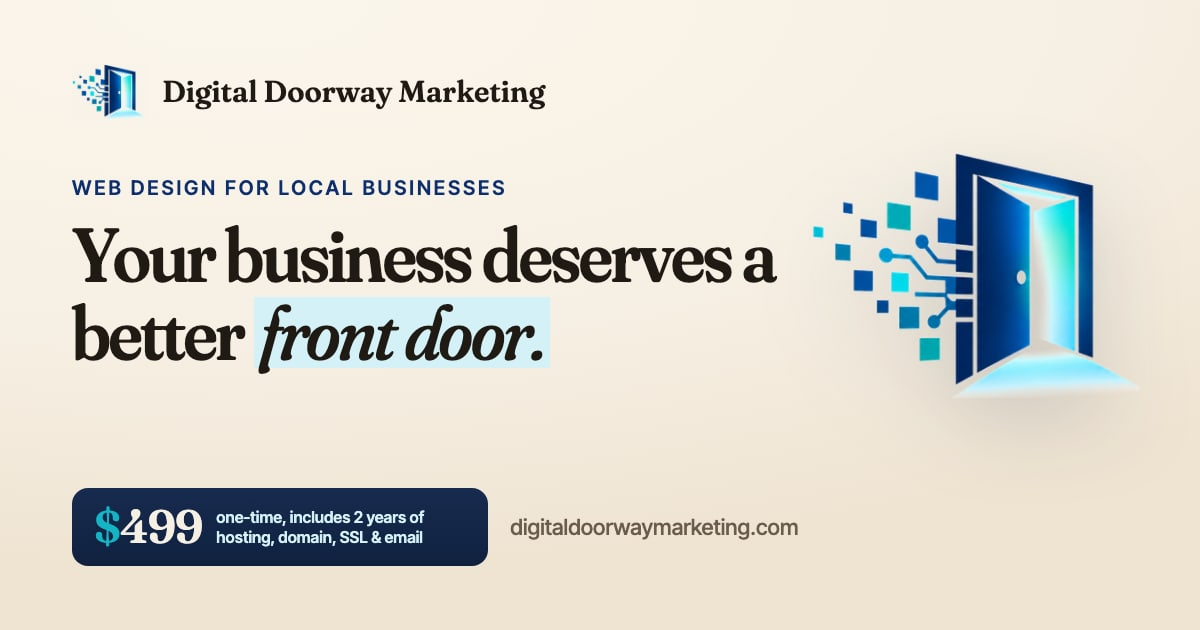
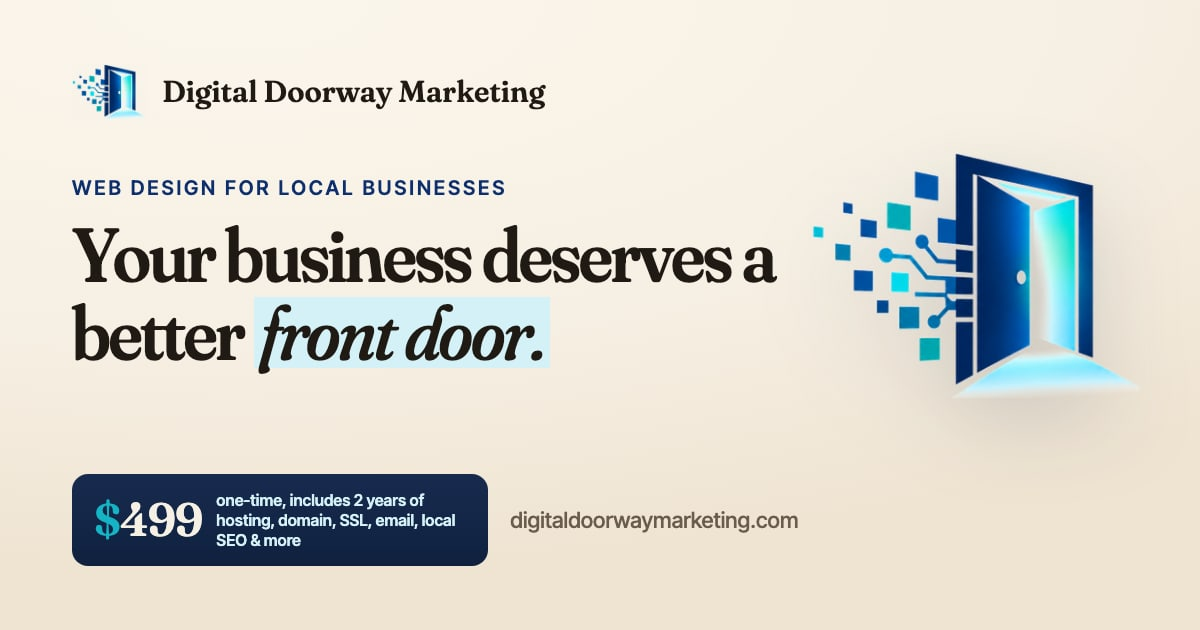
Offer matches /ready: 7 services included for 2 years; drop newsletter
- /ready: monthly newsletter removed; counts now 7 services; service cards
  center an odd last row
- Homepage: $499 includes 2 years of hosting, domain, SSL, 5 emails, local
  SEO, QR codes, and an audio welcome message (checkout rows, pricing panel,
  hero, FAQ, after-two-years intro)
- Bundle renamed 'Business Bundle' with /ready's contents (domain, hosting,
  SSL, 5 emails, local SEO, QR codes, audio welcome) at $34.99/month
- Meta/OG/JSON-LD, llms.txt, share image, worker item names updated

Changed region(s): [[0.0617, 0.754, 0.6783, 0.8746]]

diff --git a/docs/index.html b/docs/index.html
@@ -4,7 +4,7 @@
   <meta charset="utf-8">
   <meta name="viewport" content="width=device-width, initial-scale=1">
   <title>Small Business Web Design, $499 | Digital Doorway Marketing</title>
-  <meta name="description" content="Custom websites for local businesses for a flat $499, including 2 years of hosting, domain, SSL, and business email. Mobile-first and live in days.">
+  <meta name="description" content="Custom websites for local businesses for a flat $499, with 2 years of hosting, domain, SSL, email, local SEO, and more included. Live in days.">
   <link rel="canonical" href="https://digitaldoorwaymarketing.com/">
   <meta name="theme-color" content="#F6EFE3">
   <meta property="og:type" content="website">
@@ -12,16 +12,16 @@
   <meta property="og:locale" content="en_US">
   <meta property="og:url" content="https://digitaldoorwaymarketing.com/">
   <meta property="og:title" content="$499 Small Business Websites | Digital Doorway Marketing">
-  <meta property="og:description" content="A custom website for your local business for a flat $499, including your first 2 years of hosting, domain, SSL, and business email. Designed, written, and launched for you.">
+  <meta property="og:description" content="A custom website for your local business for a flat $499, with your first 2 years of hosting, domain, SSL, email, local SEO, QR codes, and an audio welcome message included.">
   <meta property="og:image" content="https://digitaldoorwaymarketing.com/assets/og-image.jpg">
   <meta property="og:image:width" content="1200">
   <meta property="og:image:height" content="630">
-  <meta property="og:image:alt" content="Digital Doorway Marketing: small business websites for $499, including 2 years of hosting, domain, SSL, and business email">
+  <meta property="og:image:alt" content="Digital Doorway Marketing: small business websites for $499, with 2 years of hosting, domain, SSL, email, and more included">
   <meta name="twitter:card" content="summary_large_image">
   <meta name="twitter:title" content="$499 Small Business Websites | Digital Doorway Marketing">
-  <meta name="twitter:description" content="A custom website for your local business for a flat $499, including your first 2 years of hosting, domain, SSL, and business email. Designed, written, and launched for you.">
+  <meta name="twitter:description" content="A custom website for your local business for a flat $499, with your first 2 years of hosting, domain, SSL, email, local SEO, QR codes, and an audio welcome message included.">
   <meta name="twitter:image" content="https://digitaldoorwaymarketing.com/assets/og-image.jpg">
-  <meta name="twitter:image:alt" content="Digital Doorway Marketing: small business websites for $499, including 2 years of hosting, domain, SSL, and business email">
+  <meta name="twitter:image:alt" content="Digital Doorway Marketing: small business websites for $499, with 2 years of hosting, domain, SSL, email, and more included">
   <link rel="icon" href="favicon.ico" sizes="48x48">
   <link rel="icon" type="image/png" sizes="96x96" href="assets/icon-96.png">
   <link rel="icon" type="image/png" sizes="192x192" href="assets/icon-192.png">
@@ -29,7 +29,7 @@
   <link rel="preload" href="assets/fonts/fraunces-normal-latin.woff2" as="font" type="font/woff2" crossorigin>
   <link rel="preload" href="assets/fonts/inter-tight-normal-latin.woff2" as="font" type="font/woff2" crossorigin>
   <script>document.documentElement.classList.add('js');</script>
-  <link rel="stylesheet" href="styles.css?v=7">
+  <link rel="stylesheet" href="styles.css?v=8">
   <script type="application/ld+json">
 {
   "@context": "https://schema.org",
@@ -49,7 +49,7 @@
         "height": 256
       },
       "image": "https://digitaldoorwaymarketing.com/assets/og-image.jpg",
-      "description": "Digital Doorway Marketing designs and builds custom websites for local businesses for a flat $499, including the first two years of hosting, domain registration, SSL security, and five business email addresses.",
+      "description": "Digital Doorway Marketing designs and builds custom websites for local businesses for a flat $499, including the first two years of hosting, domain registration, SSL security, five business email addresses, local SEO, QR codes, and an audio welcome message.",
       "email": "info@digitaldoorwaymarketing.com",
       "telephone": "+1-877-853-1920",
       "address": {
@@ -80,7 +80,7 @@
         "itemListElement": [
           {
             "@type": "Offer",
-            "name": "Small Business Bundle: hosting, SSL security, and 5 business email accounts (from month 25)",
+            "name": "Business Bundle: domain, hosting, SSL security, 5 business email accounts, local SEO, QR codes, and audio welcome message (from month 25)",
             "priceSpecification": {
               "@type": "UnitPriceSpecification",
               "price": "34.99",
@@ -165,7 +165,7 @@
       "@id": "https://digitaldoorwaymarketing.com/#webpage",
       "url": "https://digitaldoorwaymarketing.com/",
       "name": "Small Business Web Design, $499 | Digital Doorway Marketing",
-      "description": "Custom websites for local businesses for a flat $499, including 2 years of hosting, domain, SSL, and business email. Mobile-first and live in days.",
+      "description": "Custom websites for local businesses for a flat $499, with 2 years of hosting, domain, SSL, email, local SEO, and more included. Live in days.",
       "isPartOf": {
         "@id": "https://digitaldoorwaymarketing.com/#website"
       },
@@ -188,14 +188,14 @@
       "provider": {
         "@id": "https://digitaldoorwaymarketing.com/#org"
       },
-      "description": "A custom-designed, mobile-first website for a local business: copywriting help, Google-ready SEO basics, contact forms and click-to-call, two rounds of changes, launch, and the first two years of hosting, domain registration, SSL security, and five business email addresses.",
+      "description": "A custom-designed, mobile-first website for a local business: copywriting help, Google-ready SEO basics, contact forms and click-to-call, two rounds of changes, launch, and the first two years of hosting, domain registration, SSL security, five business email addresses, local SEO, QR codes, and an audio welcome message.",
       "offers": {
         "@type": "Offer",
         "@id": "https://digitaldoorwaymarketing.com/#offer",
         "name": "Website design and build",
         "price": "499.00",
         "priceCurrency": "USD",
-        "description": "One-time price. Includes the first 2 years of hosting, domain registration, SSL security, and 5 business email addresses. No monthly fees for 24 months.",
+        "description": "One-time price. Includes the first 2 years of hosting, domain registration, SSL security, 5 business email addresses, local SEO, QR codes, and an audio welcome message. No monthly fees for 24 months.",
         "url": "https://digitaldoorwaymarketing.com/#pricing",
         "availability": "https://schema.org/InStock",
         "seller": {
@@ -303,7 +303,7 @@
             <span class="line">deserves a better</span>
             <span class="line"><em class="hl-word"><span class="hl-text">front door.</span><svg class="hl-underline" viewBox="0 0 300 16" preserveAspectRatio="none" aria-hidden="true"><path d="M3 11 C 60 3, 130 15, 200 8 S 280 6, 297 9" pathLength="1"/></svg></em></span>
           </h1>
-          <p class="lead hero-lead">We design and build complete websites for restaurants, salons, trades, clinics, gyms, and shops. One flat $499, including two years of hosting, your domain, SSL security, and business email. No templates, no tech talk. You tell us about your business; we open the door.</p>
+          <p class="lead hero-lead">We design and build complete websites for restaurants, salons, trades, clinics, gyms, and shops. One flat $499, with two years of hosting, domain, SSL, email, local SEO, and more included. No templates, no tech talk. You tell us about your business; we open the door.</p>
           <div class="hero-ctas">
             <a class="btn btn-primary btn-lg" href="#contact">Get your site for $499 <svg class="btn-arrow" aria-hidden="true"><use href="#i-arrow"/></svg></a>
             <a class="btn btn-ghost btn-lg" href="#examples">See example sites</a>
@@ -484,7 +484,7 @@
           </li>
           <li data-reveal style="--i:5">
             <span class="inc-num" aria-hidden="true">06</span>
-            <div class="inc-body"><h3>Two years of hosting, domain, SSL, and email</h3><p>Your first two years of hosting, domain registration, SSL security, and five business email addresses are included. We set it all up, launch the site, and walk you through where everything is.</p></div>
+            <div class="inc-body"><h3>Two years of services, included</h3><p>Your first two years of hosting, domain registration, SSL security, five business email addresses, local SEO, QR codes for your flyers and signs, and a professionally recorded audio welcome message are all included. We set it all up, launch the site, and walk you through where everything is.</p></div>
           </li>
         </ol>
 
@@ -814,14 +814,14 @@
                 <span class="price-figure">$499</span>
                 <span class="price-term">one-time</span>
               </div>
-              <p class="price-line">Includes 2 years of hosting, domain, SSL, and business email. You own it.</p>
+              <p class="price-line">Includes 2 years of hosting, domain, SSL, email, local SEO, QR codes, and an audio welcome message. You own it.</p>
               <ul class="price-list" role="list">
                 <li><svg aria-hidden="true"><use href="#i-check"/></svg>Custom design, not a template</li>
                 <li><svg aria-hidden="true"><use href="#i-check"/></svg>Mobile-first build</li>
                 <li><svg aria-hidden="true"><use href="#i-check"/></svg>Copywriting help</li>
                 <li><svg aria-hidden="true"><use href="#i-check"/></svg>Google-ready SEO basics</li>
                 <li><svg aria-hidden="true"><use href="#i-check"/></svg>Contact forms and click-to-call</li>
-                <li><svg aria-hidden="true"><use href="#i-check"/></svg>2 years of hosting, domain, SSL &amp; email</li>
+                <li><svg aria-hidden="true"><use href="#i-check"/></svg>7 services included for 2 years</li>
                 <li><svg aria-hidden="true"><use href="#i-check"/></svg>Two rounds of changes</li>
                 <li><svg aria-hidden="true"><use href="#i-check"/></svg>A walkthrough of your new site</li>
               </ul>
@@ -833,7 +833,7 @@
             </div>
             <p class="price-tape" aria-hidden="true"></p>
           </div>
-          <p class="price-caption">No monthly fees for 24 months. After that, keep everything running with the Small Business Bundle for $34.99 a month, or choose services individually. <a class="link-hand" href="#addons">See your options</a></p>
+          <p class="price-caption">No monthly fees for 24 months. After that, keep everything running with the Business Bundle for $34.99 a month, or choose services individually. <a class="link-hand" href="#addons">See your options</a></p>
         </div>
       </div>
     </section>
@@ -842,25 +842,29 @@
     <section class="section addons-section" id="addons" aria-labelledby="addons-title">
       <div class="container">
         <div class="section-head addons-head" data-reveal>
-          <h2 id="addons-title"><span class="eyebrow">Hosting, SSL, and business email after year two</span> After your first two years.</h2>
-          <p class="section-intro">Your $499 covers hosting, your domain, SSL security, and five business email addresses for your first 24 months. After that, keep them running with us or take them anywhere. The site is yours either way.</p>
+          <h2 id="addons-title"><span class="eyebrow">Hosting, email, and SEO after year two</span> After your first two years.</h2>
+          <p class="section-intro">Your $499 covers hosting, your domain, SSL security, five business email addresses, local SEO, QR codes, and your audio welcome message for your first 24 months. After that, keep them running with us or take them anywhere. The site is yours either way.</p>
         </div>
 
         <article class="bundle" data-reveal>
           <p class="bundle-tag">Best value</p>
           <div class="bundle-main">
-            <h3>Small Business Bundle</h3>
+            <h3>Business Bundle</h3>
             <p class="bundle-tagline">Get the essential tools your business needs to look professional and stay connected.</p>
-            <p class="bundle-copy">The Small Business Bundle combines Website Hosting, SSL Website Security, and 5 Professional Business Email accounts in one convenient, affordable package. Keep your website online, protect customer information, and give your team branded email addresses, all without managing multiple services.</p>
+            <p class="bundle-copy">The Business Bundle keeps everything from your first two years running in one package: your domain, hosting, SSL security, five business email addresses, local SEO, QR codes, and your audio welcome message.</p>
             <ul class="bundle-list" role="list">
-              <li><svg aria-hidden="true"><use href="#i-check"/></svg>Website Hosting</li>
-              <li><svg aria-hidden="true"><use href="#i-check"/></svg>SSL Website Security</li>
-              <li><svg aria-hidden="true"><use href="#i-check"/></svg>5 Professional Business Email accounts</li>
+              <li><svg aria-hidden="true"><use href="#i-check"/></svg>Domain name registration</li>
+              <li><svg aria-hidden="true"><use href="#i-check"/></svg>Website hosting</li>
+              <li><svg aria-hidden="true"><use href="#i-check"/></svg>SSL security certificate</li>
+              <li><svg aria-hidden="true"><use href="#i-check"/></svg>5 professional email addresses</li>
+              <li><svg aria-hidden="true"><use href="#i-check"/></svg>Local SEO</li>
+              <li><svg aria-hidden="true"><use href="#i-check"/></svg>QR code generation</li>
+              <li><svg aria-hidden="true"><use href="#i-check"/></svg>Audio welcome message</li>
             </ul>
           </div>
           <div class="bundle-side">
             <p class="bundle-price"><span>$34.99</span>/month</p>
-            <p class="bundle-save">About $30 a year less than buying all three separately.</p>
+            <p class="bundle-save">Less than hosting, SSL, and five email accounts bought separately, with your domain, SEO, QR codes, and audio message added.</p>
             <p class="bundle-when">Optional. Starts only after your first 24 months.</p>
           </div>
         </article>
@@ -906,7 +910,7 @@
         <div class="section-head co-head" data-reveal>
           <p class="eyebrow">Your order</p>
           <h2 id="checkout-title">Claim your website.</h2>
-          <p class="section-intro">One payment of $499 covers your website plus two years of hosting, your domain, SSL security, and five business email addresses. No monthly fees for 24 months.</p>
+          <p class="section-intro">One payment of $499 covers your website plus two years of hosting, domain, SSL, five business email addresses, local SEO, QR codes, and an audio welcome message. No monthly fees for 24 months.</p>
         </div>
 
         <div class="co-grid">
@@ -936,6 +940,21 @@
               <label class="co-opt is-locked">
                 <input type="checkbox" checked disabled>
                 <span class="co-name">5 professional email addresses<small>Business email on your own domain, like you@yourbusiness.com.</small></span>
+                <span class="co-price">Included<small>2 years</small></span>
+              </label>
+              <label class="co-opt is-locked">
+                <input type="checkbox" checked disabled>
+                <span class="co-name">Local SEO<small>Set up so nearby customers find you when they search for what you do.</small></span>
+                <span class="co-price">Included<small>2 years</small></span>
+              </label>
+              <label class="co-opt is-locked">
+                <input type="checkbox" checked disabled>
+                <span class="co-name">QR code generation<small>Custom QR codes for flyers, trucks, cards, and signs that send people to your site.</small></span>
+                <span class="co-price">Included<small>2 years</small></span>
+              </label>
+              <label class="co-opt is-locked">
+                <input type="checkbox" checked disabled>
+                <span class="co-name">Professional audio welcome message<small>A professionally recorded voice greeting that welcomes visitors to your site.</small></span>
                 <span class="co-price">Included<small>2 years</small></span>
               </label>
             </fieldset>
@@ -1001,12 +1020,12 @@
           </details>
           <details class="faq-item" data-reveal style="--i:1">
             <summary><span>Is $499 really the whole price?</span><svg class="faq-plus" aria-hidden="true"><use href="#i-plus"/></svg></summary>
-            <div class="faq-body"><p>Yes. The $499 covers the build plus your first two years of hosting, domain registration, SSL security, and five business email addresses. There are no monthly fees for 24 months. After that, you can keep everything running with the Small Business Bundle for $34.99 a month or choose services individually, and we'll remind you before anything renews.</p></div>
+            <div class="faq-body"><p>Yes. The $499 covers the build plus your first two years of hosting, domain registration, SSL security, five business email addresses, local SEO, QR codes, and an audio welcome message. There are no monthly fees for 24 months. After that, you can keep everything running with the Business Bundle for $34.99 a month or choose services individually, and we'll remind you before anything renews.</p></div>
           </details>
           <details class="faq-item" data-reveal style="--i:2">
             <!-- REPLACE: state your actual payment terms here (timing, method). Do not invent a deposit split. -->
             <summary><span>When do I pay?</span><svg class="faq-plus" aria-hidden="true"><use href="#i-plus"/></svg></summary>
-            <div class="faq-body"><p>One payment of $499, which includes your first two years of hosting, your domain, SSL security, and business email. You pay online through Square's secure checkout with a card, Apple Pay, or Google Pay.</p></div>
+            <div class="faq-body"><p>One payment of $499, which includes your first two years of hosting, domain, SSL, business email, local SEO, QR codes, and an audio welcome message. You pay online through Square's secure checkout with a card, Apple Pay, or Google Pay.</p></div>
           </details>
           <details class="faq-item" data-reveal style="--i:3">
             <summary><span>What if I already have a site?</span><svg class="faq-plus" aria-hidden="true"><use href="#i-plus"/></svg></summary>
@@ -1022,7 +1041,7 @@
           </details>
           <details class="faq-item" data-reveal style="--i:6">
             <summary><span>What about my domain and hosting?</span><svg class="faq-plus" aria-hidden="true"><use href="#i-plus"/></svg></summary>
-            <div class="faq-body"><p>Your first two years of hosting, domain registration, SSL security, and five business email addresses are all included in the $499. If you already own a domain, we connect it; if not, we register one for you. From month 25, keep them with the Small Business Bundle for $34.99 a month, or individually: hosting $14.99 a month, SSL $5.99 a month, and email from $59 a year. Your domain renews yearly, and we'll confirm that price before it's due. Either way, the site is yours.</p></div>
+            <div class="faq-body"><p>Your first two years of hosting and domain registration are included in the $499, along with SSL security, five business email addresses, local SEO, QR codes, and an audio welcome message. If you already own a domain, we connect it; if not, we register one for you. From month 25, keep everything with the Business Bundle for $34.99 a month, or individually: hosting $14.99 a month, SSL $5.99 a month, and email from $59 a year, with your domain renewing yearly (we'll confirm that price before it's due). Either way, the site is yours.</p></div>
           </details>
           <details class="faq-item" data-reveal style="--i:7">
             <summary><span>Can I update it myself later?</span><svg class="faq-plus" aria-hidden="true"><use href="#i-plus"/></svg></summary>
@@ -1034,7 +1053,7 @@
           </details>
           <details class="faq-item" data-reveal style="--i:9">
             <summary><span>Is there a contract?</span><svg class="faq-plus" aria-hidden="true"><use href="#i-plus"/></svg></summary>
-            <div class="faq-body"><p>A one-page agreement that says what we'll build, what you'll pay, and that you own everything when it's done. There are no monthly fees for the first two years. If you continue with the Small Business Bundle or other services after that, those terms are spelled out in the same agreement.</p></div>
+            <div class="faq-body"><p>A one-page agreement that says what we'll build, what you'll pay, and that you own everything when it's done. There are no monthly fees for the first two years. If you continue with the Business Bundle or other services after that, those terms are spelled out in the same agreement.</p></div>
           </details>
         </div>
         <p class="faq-closing" data-reveal>Still wondering something? <a class="link-hand" href="#contact">Ask us</a>. Plain answer, no pitch.</p>
@@ -1202,6 +1221,6 @@
     </div>
   </footer>
 
-  <script src="script.js?v=8"></script>
+  <script src="script.js?v=9"></script>
 </body>
 </html>

diff --git a/docs/ready/index.html b/docs/ready/index.html
@@ -4,7 +4,7 @@
 <meta charset="utf-8">
 <meta name="viewport" content="width=device-width, initial-scale=1">
 <title>Your New Website | Digital Doorway Marketing</title>
-<meta name="description" content="Your new website is ready. See everything included for $499: two years of domain, hosting, SSL, professional email, local SEO, QR codes, an audio welcome message and more.">
+<meta name="description" content="Your new website is ready. See everything included for $499: two years of domain, hosting, SSL, professional email, local SEO, QR codes and an audio welcome message.">
 <meta name="robots" content="noindex">
 <meta name="theme-color" content="#06142E">
 <link rel="icon" href="assets/logo-mark.png">
@@ -98,7 +98,8 @@
   }
   .value-banner span { display: inline-flex; align-items: center; gap: 10px; }
   .value-banner b { color: var(--teal); }
-  .services { display: grid; grid-template-columns: repeat(4, 1fr); gap: 18px; margin-top: 28px; }
+  .services { display: flex; flex-wrap: wrap; justify-content: center; gap: 18px; margin-top: 28px; }
+  .services > .svc { flex: 0 0 calc((100% - 54px) / 4); }
   .svc { background: var(--card); border-radius: var(--radius); padding: 24px 22px; box-shadow: var(--shadow); position: relative; }
   .svc .ico { width: 46px; height: 46px; border-radius: 12px; display: grid; place-items: center; background: rgba(21, 86, 184, 0.09); color: var(--blue); margin-bottom: 16px; }
   .svc .ico svg { width: 24px; height: 24px; }
@@ -269,11 +270,12 @@
   @media (prefers-reduced-motion: reduce) { html { scroll-behavior: auto; } .rv { opacity: 1; transform: none; transition: none; } .bar .fill { transition: none; } }
 
   @media (max-width: 960px) {
-    .services { grid-template-columns: repeat(2, 1fr); }
+    .services > .svc { flex-basis: calc((100% - 18px) / 2); }
     .receipt-wrap, .choices, .claim-grid { grid-template-columns: 1fr; }
   }
   @media (max-width: 640px) {
-    .services, .keep, .timeline { grid-template-columns: 1fr; }
+    .keep, .timeline { grid-template-columns: 1fr; }
+    .services > .svc { flex-basis: 100%; }
     .brand span { display: none; }
     .video { border-radius: 14px; }
     .hero-cta .btn { width: 100%; }
@@ -327,7 +329,7 @@
         <p class="lead">Your $499 doesn't just buy a website. It also covers every service below for your first two years, with nothing extra to pay.</p>
       </div>
       <div class="value-banner rv">
-        <span>✓ <b>8 services</b> included</span>
+        <span>✓ <b>7 services</b> included</span>
         <span>✓ Covered for <b>24 months</b></span>
         <span>✓ Over <b>$800 in value per year</b></span>
       </div>
@@ -367,12 +369,12 @@
 
       <div class="timeline rv" aria-label="Timeline">
         <div class="tl t1"><small>Today</small><b>Pay $499 once</b><span>Your website goes live</span></div>
-        <div class="tl t2"><small>Months 1–24</small><b>All 8 services included</b><span>Nothing more to pay</span></div>
+        <div class="tl t2"><small>Months 1–24</small><b>All 7 services included</b><span>Nothing more to pay</span></div>
         <div class="tl t3"><small>Month 25 onward</small><b>You choose</b><span>Buy services individually or bundle them</span></div>
       </div>
       <div class="keep rv">
         <div class="yes"><svg viewBox="0 0 24 24" aria-hidden="true"><circle cx="12" cy="12" r="12" fill="#2BD47D"/><path d="M7 12.5l3 3 7-7" stroke="#06142E" stroke-width="2.6" fill="none" stroke-linecap="round" stroke-linejoin="round"/></svg><div><b>You keep your website</b><span>The website you purchased is yours, after year two and beyond.</span></div></div>
-        <div class="no"><svg viewBox="0 0 24 24" aria-hidden="true"><circle cx="12" cy="12" r="12" fill="#FFC400"/><path d="M12 6.5v7" stroke="#06142E" stroke-width="2.6" stroke-linecap="round"/><circle cx="12" cy="17.3" r="1.5" fill="#06142E"/></svg><div><b>The included services end</b><span>Domain, hosting, SSL, email, SEO, QR codes, audio message and newsletter are no longer covered after month 24.</span></div></div>
+        <div class="no"><svg viewBox="0 0 24 24" aria-hidden="true"><circle cx="12" cy="12" r="12" fill="#FFC400"/><path d="M12 6.5v7" stroke="#06142E" stroke-width="2.6" stroke-linecap="round"/><circle cx="12" cy="17.3" r="1.5" fill="#06142E"/></svg><div><b>The included services end</b><span>Domain, hosting, SSL, email, SEO, QR codes and audio message are no longer covered after month 24.</span></div></div>
       </div>
 
       <div class="choices">
@@ -413,8 +415,8 @@
       </div>
       <div class="faq">
         <details class="rv"><summary>Do I own the website after I pay?</summary><p>Yes. Once you claim it for $499, the website is yours to keep, during your first two years and after.</p></details>
-        <details class="rv"><summary>Are there any monthly fees during the first two years?</summary><p>No. Your one-time $499 covers the website plus all eight included services for 24 months.</p></details>
-        <details class="rv"><summary>What happens when the two years are up?</summary><p>You keep the website. The included services (domain, hosting, SSL, email, local SEO, QR codes, audio welcome message and newsletter) are no longer covered. You can buy them individually from any provider, or continue with us through the Business Bundle for $34.99 a month.</p></details>
+        <details class="rv"><summary>Are there any monthly fees during the first two years?</summary><p>No. Your one-time $499 covers the website plus all seven included services for 24 months.</p></details>
+        <details class="rv"><summary>What happens when the two years are up?</summary><p>You keep the website. The included services (domain, hosting, SSL, email, local SEO, QR codes and audio welcome message) are no longer covered. You can buy them individually from any provider, or continue with us through the Business Bundle for $34.99 a month.</p></details>
         <details class="rv"><summary>Do I have to sign up for the Business Bundle?</summary><p>No. The bundle is completely optional, and it's only relevant after your first 24 months. It's simply the easiest and most affordable way to keep everything running in one place.</p></details>
         <details class="rv"><summary>What's included in the Business Bundle?</summary><p>Domain name registration, website hosting, SSL certificate, QR codes, five business email addresses on your domain, SEO and your audio welcome message, all for $34.99 a month.</p></details>
         <details class="rv"><summary>How do I pay?</summary><p>Click "Claim my website" and pay securely by card. Payments are processed by Square.</p></details>
@@ -433,7 +435,7 @@
       <div class="order rv">
         <div class="order-site"><div class="fav" id="favInitial">Y</div><div><b data-biz>your business</b><span data-domain>yourbusiness.com</span></div></div>
         <div class="order-row"><span>Custom professional website</span><span>Included</span></div>
-        <div class="order-row"><span>8 services for 24 months</span><span>Included</span></div>
+        <div class="order-row"><span>7 services for 24 months</span><span>Included</span></div>
         <div class="order-row"><span>Monthly fees for 2 years</span><span>$0</span></div>
         <div class="order-row total"><span>Total due today</span><span>$499.00</span></div>
         <button class="btn btn-primary" type="button" data-checkout>Claim my website · $499</button>
@@ -510,8 +512,6 @@ const SERVICES = [
     icon: '<rect x="3" y="3" width="7" height="7" rx="1"/><rect x="14" y="3" width="7" height="7" rx="1"/><rect x="3" y="14" width="7" height="7" rx="1"/><path d="M14 14h3v3h-3zM20 14v.01M14 20h.01M17 17h4v4h-4"/>' },
   { key: "audio", name: "Professional audio welcome message", desc: "A professionally recorded voice greeting that welcomes visitors to your site.", price: 99, per: "yr", priceNote: "Pro recording, refreshed yearly", bundle: true,
     icon: '<rect x="9" y="3" width="6" height="11" rx="3"/><path d="M5 11a7 7 0 0 0 14 0M12 18v3"/>' },
-  { key: "newsletter", name: "Monthly marketing newsletter", desc: "A monthly newsletter that keeps your business in front of customers.", bundle: false,
-    icon: '<path d="M4 5h13a2 2 0 0 1 2 2v12H6a2 2 0 0 1-2-2z"/><path d="M19 9h1a1 1 0 0 1 1 1v7a2 2 0 0 1-2 2M8 9h7M8 13h7M8 17h4"/>' },
 ];
 // ═════════════════════════════════════════════════════════════════════════
 

diff --git a/docs/script.js b/docs/script.js
@@ -530,7 +530,7 @@
     setX(50);
   })();
 
-  /* ---------- Order: the $499 website (2 years of hosting, domain, SSL, and 5 emails included), paid through Square ----------
+  /* ---------- Order: the $499 website (2 years of hosting, domain, SSL, 5 emails, local SEO, QR codes, audio welcome included), paid through Square ----------
      The worker prices the order (api/worker.js CATALOG) and returns a Square payment link for it. */
   (function () {
     var form = document.querySelector('[data-checkout]'); if (!form) return;
@@ -542,12 +542,12 @@
     function selected() { return ['build']; }
     function render() {
       lines.innerHTML = '';
-      [['Website design and build', '$499.00'], ['2 years of hosting, domain, SSL & 5 emails', 'Included']].forEach(function (row) {
+      [['Website design and build', '$499.00'], ['7 services for 24 months', 'Included']].forEach(function (row) {
         var li = document.createElement('li'), n = document.createElement('span'), v = document.createElement('b');
         n.textContent = row[0]; v.textContent = row[1]; li.appendChild(n); li.appendChild(v); lines.appendChild(li);
       });
       total.textContent = '$499.00';
-      renew.textContent = 'No monthly fees for your first 24 months. After that, the optional Small Business Bundle keeps everything running for $34.99 a month.';
+      renew.textContent = 'No monthly fees for your first 24 months. After that, the optional Business Bundle keeps everything running for $34.99 a month.';
       renew.hidden = false;
     }
 

diff --git a/api/worker.js b/api/worker.js
@@ -30,8 +30,8 @@ async function send(env, msg) {
 /* ---- Checkout: $499 build + optional add-ons → a Square payment link for exactly that order ----
    Prices live here (server side) so the browser can't change what gets charged. */
 const CATALOG = {
-  build:   { name: 'Website design and build, including first 2 years of hosting, domain, SSL, and 5 business email addresses (one-time)', cents: 49900, required: true },
-  bundle:  { name: 'Small Business Bundle: SSL, 5 email accounts, hosting from year 3 (first month)', cents: 3499, renews: 'month', renewCents: 3499 },
+  build:   { name: 'Website design and build, including first 2 years of hosting, domain, SSL, 5 email addresses, local SEO, QR codes, and an audio welcome message (one-time)', cents: 49900, required: true },
+  bundle:  { name: 'Business Bundle: domain, hosting, SSL, 5 email accounts, local SEO, QR codes, audio welcome message (first month)', cents: 3499, renews: 'month', renewCents: 3499 },
   hosting: { name: 'Website Hosting (first month)', cents: 1499, renews: 'month', renewCents: 1499 },
   ssl:     { name: 'SSL Website Security (first month)', cents: 599, renews: 'month', renewCents: 599 },
   email1:  { name: 'Professional Business Email: 1 account (first year)', cents: 5900, renews: 'year', renewCents: 5900 },

diff --git a/README.md b/README.md
@@ -63,8 +63,9 @@ Commit and push to `main`; GitHub Pages rebuilds from `docs/` in about a minute.
 
 ## Orders and online payment (Square)
 
-- The `#checkout` section ("Claim your website") charges exactly $499. The $499 includes the website plus the first 2 years of hosting, domain registration, SSL security, and 5 business email addresses, with no monthly fees for 24 months (matching `/ready`). "Continue to secure payment" POSTs `{items: ["build"]}` and an optional receipt email to the worker's `/checkout`, which creates a Square payment link for the order under the "Digital Doorway Marketing" location and redirects the customer to Square's checkout. Afterward they land on `docs/thank-you.html`.
-- The "After your first two years" section (`#addons`) lists what applies from month 25: the optional Small Business Bundle ($34.99/month; hosting, SSL, 5 emails) or individual hosting ($14.99/month), SSL ($5.99/month), and email ($59/$129/$199 a year). Nothing from it is sold at checkout today. The worker's `CATALOG` still knows those items if they're ever sold online.
+- The `#checkout` section ("Claim your website") charges exactly $499. The $499 includes the website plus the first 2 years of 7 services: hosting, domain registration, SSL security, 5 business email addresses, local SEO, QR code generation, and a professional audio welcome message, with no monthly fees for 24 months (same as `/ready`). "Continue to secure payment" POSTs `{items: ["build"]}` and an optional receipt email to the worker's `/checkout`, which creates a Square payment link for the order under the "Digital Doorway Marketing" location and redirects to Square's checkout. Afterward customers land on `docs/thank-you.html`.
+- The "After your first two years" section (`#addons`) lists what applies from month 25: the optional Business Bundle ($34.99/month; domain, hosting, SSL, 5 emails, local SEO, QR codes, audio welcome message, matching `/ready`) or individual hosting ($14.99/month), SSL ($5.99/month), and email ($59/$129/$199 a year). Nothing from it is sold at checkout today. The worker's `CATALOG` still knows those items if they're ever sold online.
+- `/ready` and the homepage must describe the same offer. If the included services or the bundle change, update both pages, the JSON-LD, `docs/llms.txt`, and the worker's item names.
 - The Square webhook subscription "Digital Doorway Marketing sales" is enabled, so every completed payment sends the admins a "New sale" email and the customer a thank-you.
 - Switches: `CHECKOUT_ENABLED` in `api/wrangler.toml` ("yes" now). If checkout can't open, the page offers the plain $499 link (square.link/u/K1iD7cfg), which is also what `/ready` uses.
 - The Square location must be **Active** for any of this to work. On 2026-10-04 it had been set to Inactive (Square showed "This business is currently not accepting payments") and was reactivated through the API.
